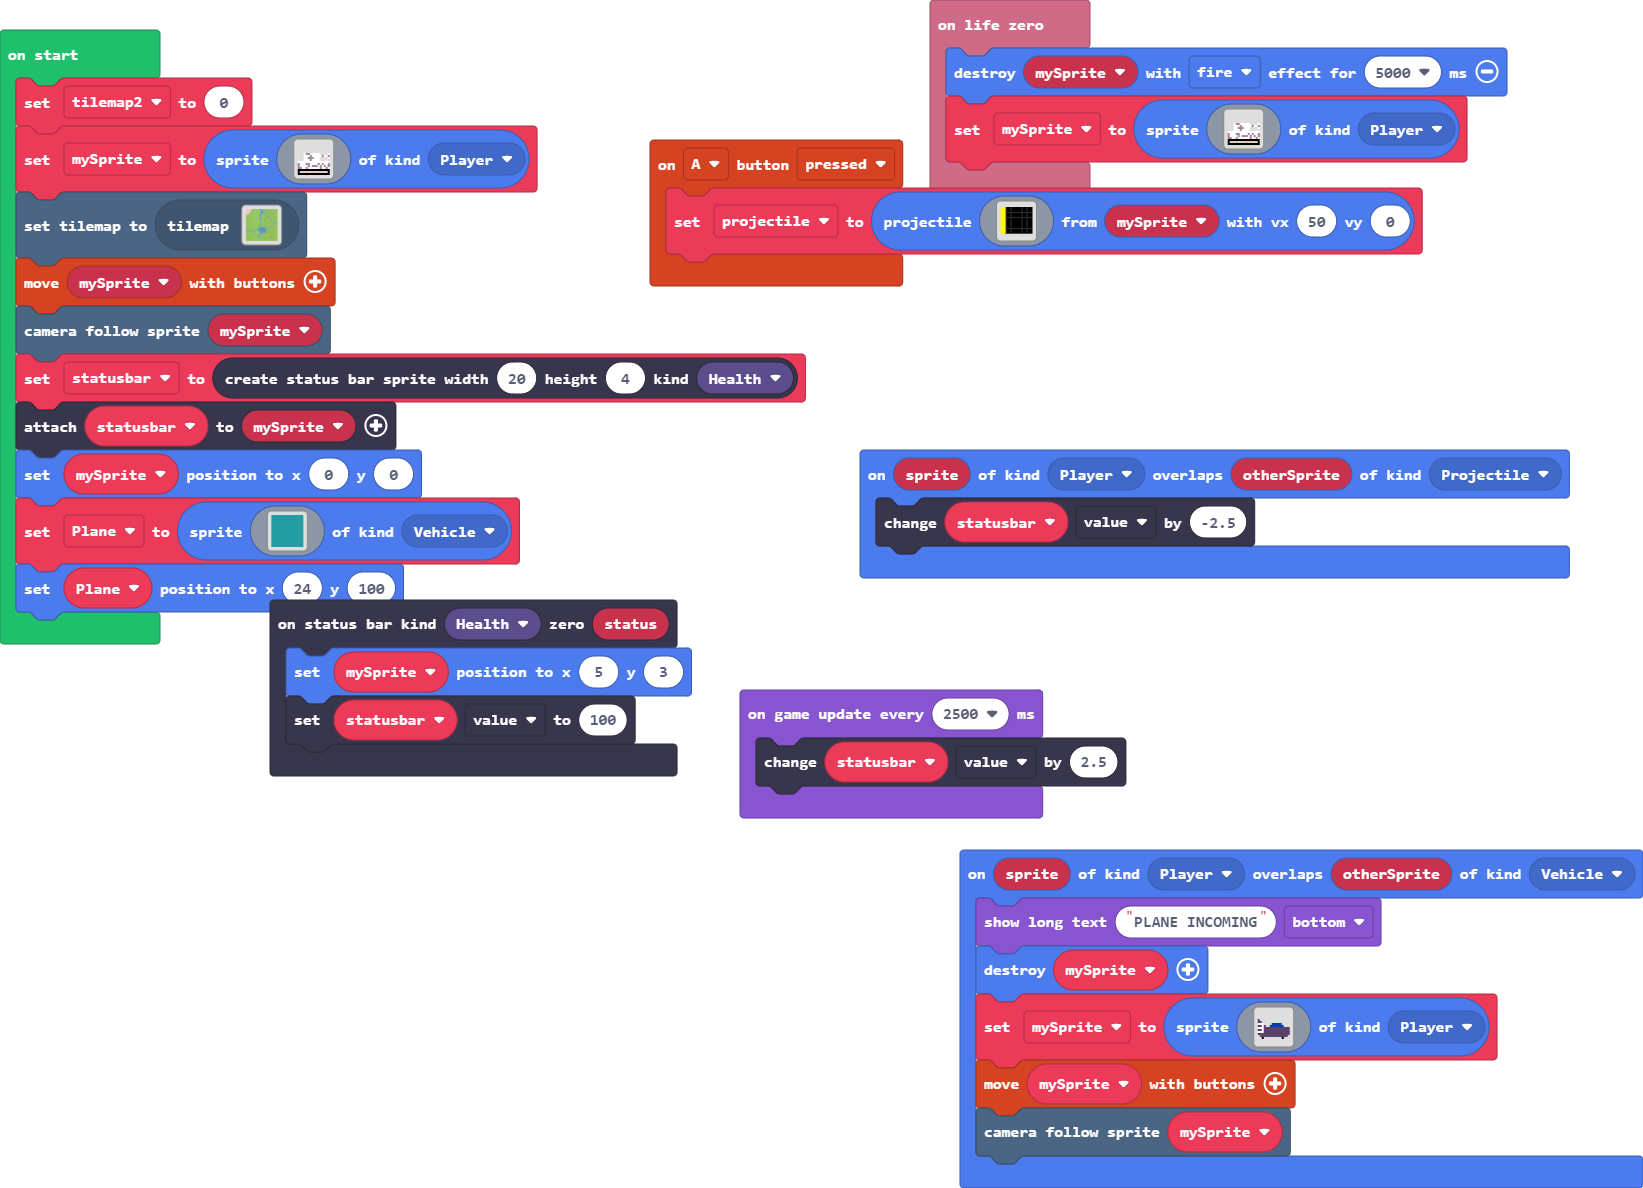
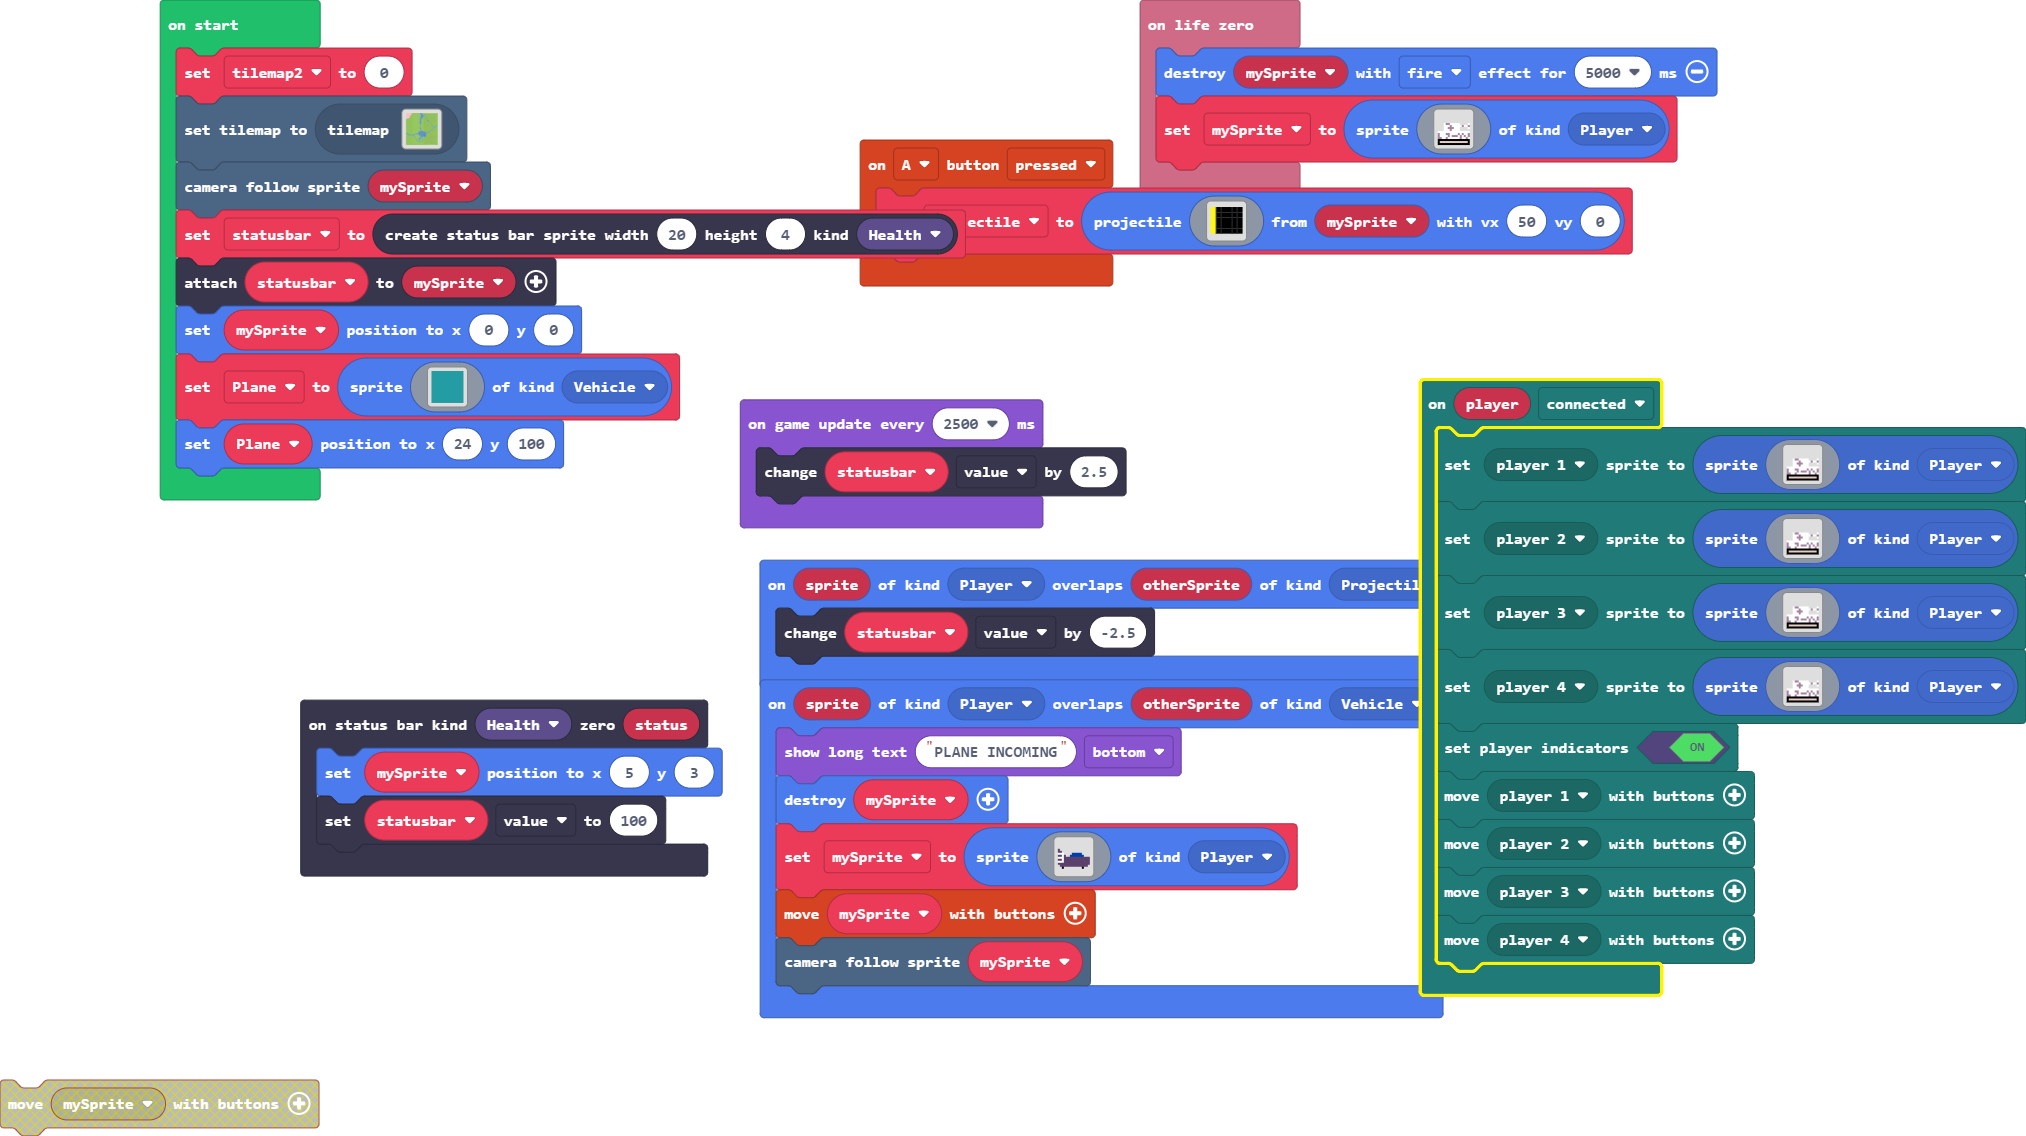
Please Help

diff --git a/tilemap.g.ts b/tilemap.g.ts
@@ -279,6 +279,25 @@ namespace myTiles {
 ...............................................................................................................................................................................................................................................................
 ...............................................................................................................................................................................................................................................................
 `, [myTiles.transparency16,myTiles.tile1,sprites.builtin.forestTiles3,sprites.builtin.forestTiles0,myTiles.tile2,sprites.castle.tilePath5,myTiles.tile3,myTiles.tile4,myTiles.tile5,myTiles.tile6,myTiles.tile7,myTiles.tile8], TileScale.Sixteen);
+            case "level2":
+            case "level2":return tiles.createTilemap(hex`1000100000000000000000000000000000000000000000000000000000000000000000000000000000000000000000000000000000000000000000000000000000000000000000000000000000000000000000000000000000000000000000000000000000000000000000000000000000000000000000000000000000000000000000000000000000000000000000000000000000000000000000000000000000000000000000000000000000000000000000000000000000000000000000000000000000000000000000000000000000000000000000000000000000000000000000000000000000000000000000000000000000000000000000000000000000000000`, img`
+. . . . . . . . . . . . . . . . 
+. . . . . . . . . . . . . . . . 
+. . . . . . . . . . . . . . . . 
+. . . . . . . . . . . . . . . . 
+. . . . . . . . . . . . . . . . 
+. . . . . . . . . . . . . . . . 
+. . . . . . . . . . . . . . . . 
+. . . . . . . . . . . . . . . . 
+. . . . . . . . . . . . . . . . 
+. . . . . . . . . . . . . . . . 
+. . . . . . . . . . . . . . . . 
+. . . . . . . . . . . . . . . . 
+. . . . . . . . . . . . . . . . 
+. . . . . . . . . . . . . . . . 
+. . . . . . . . . . . . . . . . 
+. . . . . . . . . . . . . . . . 
+`, [myTiles.transparency16], TileScale.Sixteen);
         }
         return null;
     })

diff --git a/main.ts b/main.ts
@@ -22,13 +22,22 @@ info.onLifeZero(function () {
     sprites.destroy(mySprite, effects.fire, 5000)
     mySprite = sprites.create(assets.image`Tank`, SpriteKind.Player)
 })
+mp.onControllerEvent(ControllerEvent.Connected, function (player2) {
+    mp.setPlayerSprite(mp.playerSelector(mp.PlayerNumber.One), sprites.create(assets.image`Tank`, SpriteKind.Player))
+    mp.setPlayerSprite(mp.playerSelector(mp.PlayerNumber.Two), sprites.create(assets.image`Tank`, SpriteKind.Player))
+    mp.setPlayerSprite(mp.playerSelector(mp.PlayerNumber.Three), sprites.create(assets.image`Tank`, SpriteKind.Player))
+    mp.setPlayerSprite(mp.playerSelector(mp.PlayerNumber.Four), sprites.create(assets.image`Tank`, SpriteKind.Player))
+    mp.setPlayerIndicatorsVisible(true)
+    mp.moveWithButtons(mp.playerSelector(mp.PlayerNumber.One))
+    mp.moveWithButtons(mp.playerSelector(mp.PlayerNumber.Two))
+    mp.moveWithButtons(mp.playerSelector(mp.PlayerNumber.Three))
+    mp.moveWithButtons(mp.playerSelector(mp.PlayerNumber.Four))
+})
 let projectile: Sprite = null
 let statusbar: StatusBarSprite = null
 let mySprite: Sprite = null
 let tilemap2 = 0
-mySprite = sprites.create(assets.image`Tank`, SpriteKind.Player)
 tiles.setCurrentTilemap(tilemap`level1`)
-controller.moveSprite(mySprite)
 scene.cameraFollowSprite(mySprite)
 statusbar = statusbars.create(20, 4, StatusBarKind.Health)
 statusbar.attachToSprite(mySprite)
